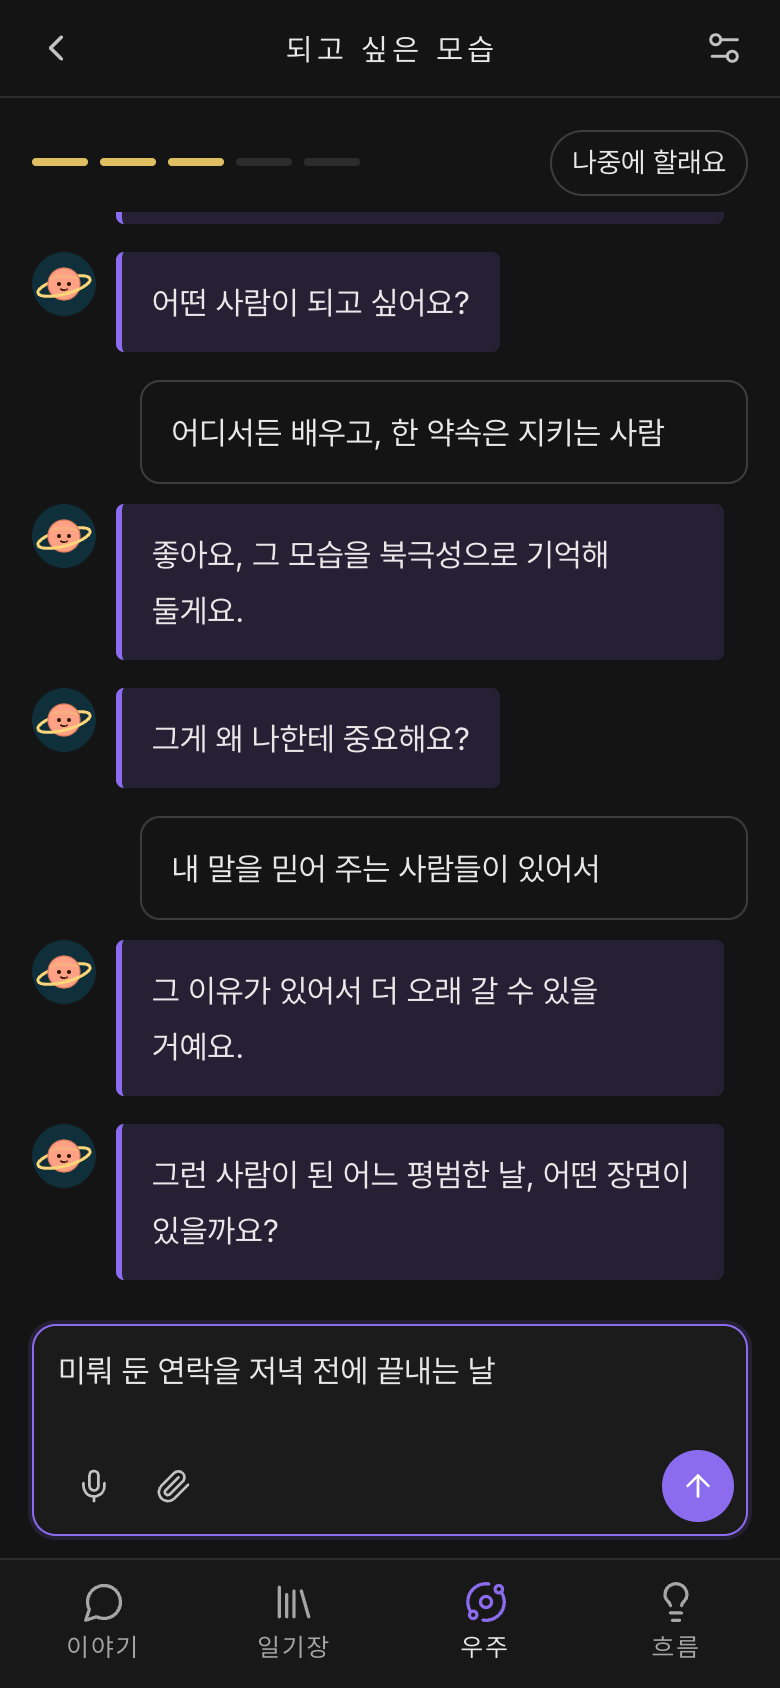
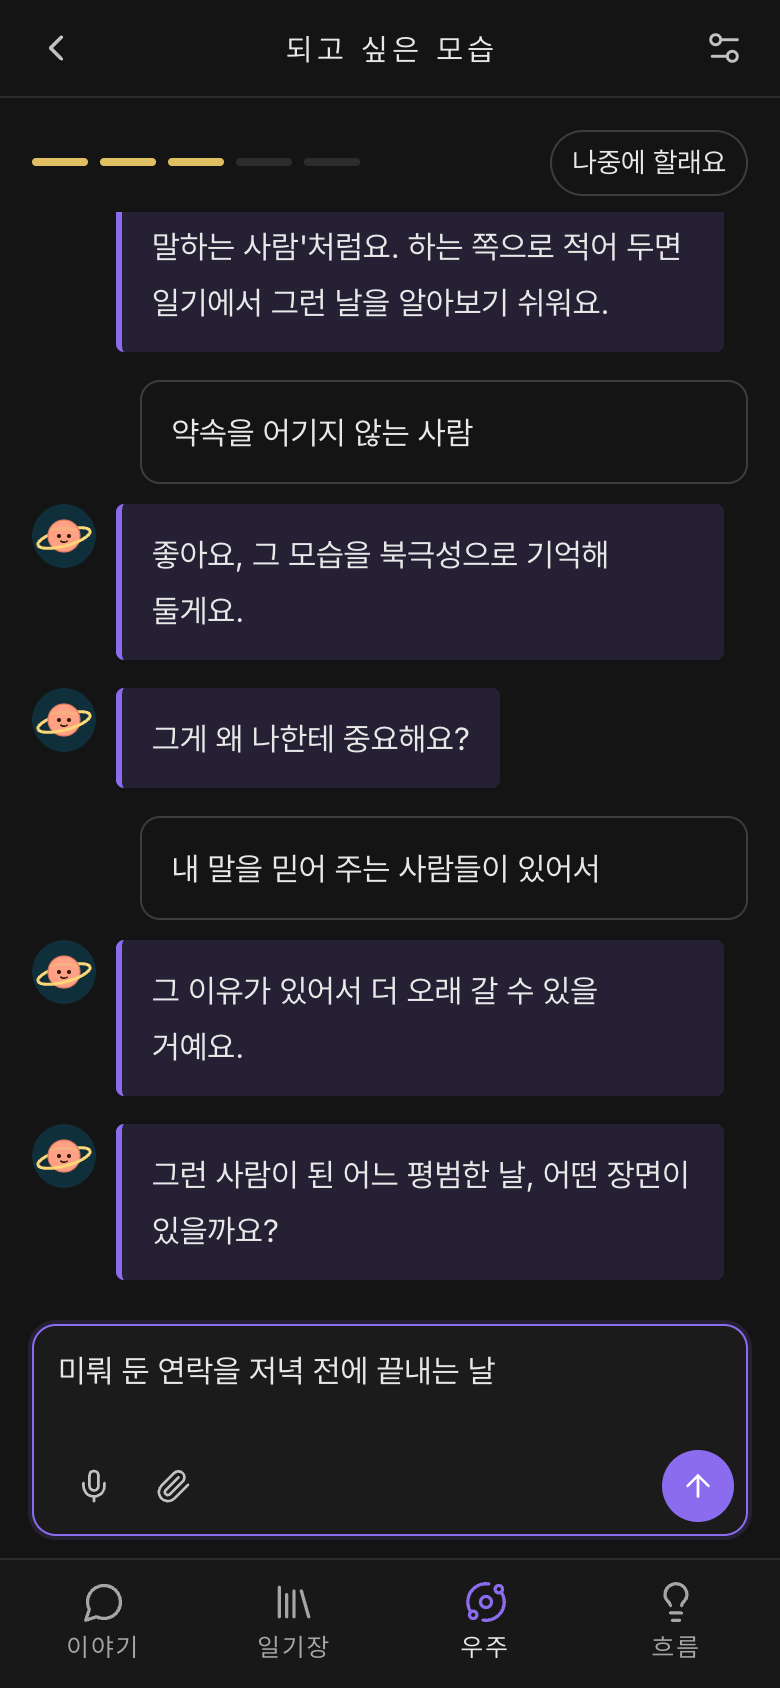
되고 싶은 모습: 피하는 말로 답하면 왜 다시 묻는지 + 예시로 돌려 묻고 '처음 말 그대로 둘래요' 단추(사용자 불편 11/3 「두 질문의 차이를 모르겠다」)

diff --git a/infra/frontend/components/AspirationInterview.tsx b/infra/frontend/components/AspirationInterview.tsx
@@ -1,7 +1,8 @@
 "use client";
 // 되고 싶은 모습 인터뷰(PRD v9 Q3): 별지기와 대화하듯 다섯 질문(방향 · 이유 · 장면 · 안쪽 걸림 · 그때) → 한 화면 요약 → 고칠 것은 다시 묻기.
 // 질문 · 받아 주는 말 · 예시는 온톨로지 aspiration.ask_steps(LLM 없음). '몰라요'나 아주 짧은 답이면 예시로 한 번만 더 묻고,
-// 그래도 모르면 그 칸은 비워 두고 다음으로. 방향이 피하는 말이면 한 번만 돌려 묻는다. 답은 사용자가 한 말 그대로 남긴다.
+// 그래도 모르면 그 칸은 비워 두고 다음으로. 방향이 피하는 말이면 왜 묻는지와 함께 한 번만 돌려 묻고, '처음 말 그대로 둘래요'로 그대로 둘 수도 있다
+// (2026-11-04 사용자 불편 「두 질문의 차이를 모르겠다」). 답은 사용자가 한 말 그대로 남긴다.
 import { useEffect, useRef, useState } from "react";
 import Icon from "@/components/Icon";
 import { useKeeperName } from "@/components/Keeper";
@@ -25,7 +26,7 @@ export default function AspirationInterview({ first, onDone, onLater }:
   const [lines, setLines] = useState<Line[]>([]);
   const [draft, setDraft] = useState("");
   const [retried, setRetried] = useState<number[]>([]);   // 예시로 한 번 더 물은 질문
-  const [avoided, setAvoided] = useState(false);
+  const [avoided, setAvoided] = useState("");   // 돌려 물은 처음 방향 답(그대로 두기 단추에 씀)
   const [fixing, setFixing] = useState<number | null>(null);   // 요약에서 '고칠래요'로 다시 묻는 질문
   const [summary, setSummary] = useState(false);
   const [values, setValues] = useState<string[]>([]);
@@ -67,8 +68,8 @@ export default function AspirationInterview({ first, onDone, onLater }:
       return next(a, t, "괜찮아요. 이건 비워 두고, 나중에 다시 여쭤볼게요.");
     }
     if (i === 0 && AVOID.test(t) && !avoided) {
-      setAvoided(true);
-      setLines([...lines, { who: "me", text: t }, { who: "keeper", text: steps[0].avoid_ask ?? "그럼 대신 어떤 사람이 되고 싶어요?" }]);
+      setAvoided(t);
+      setLines([...lines, { who: "me", text: t }, { who: "keeper", text: steps[0].avoid_ask ?? steps[0].question }]);
       return;
     }
     const a = { ...ans, [key(i)]: t };
@@ -130,6 +131,8 @@ export default function AspirationInterview({ first, onDone, onLater }:
             {fail && <p className="err" role="alert" style={{ margin: 0 }}>{fail}</p>}
           </div>
         )}
+        {avoided && step === 0 && fixing === null && ans.want === undefined && (   // 돌려 물은 말 바로 밑 답 단추
+          <button type="button" className="small" style={{ marginLeft: 36 }} onClick={() => answer(avoided)}>처음 말 그대로 둘래요</button>)}
         <div ref={endRef} />
       </div>
 

diff --git a/infra/frontend/e2e/flow.spec.ts b/infra/frontend/e2e/flow.spec.ts
@@ -130,13 +130,25 @@ test("핵심 흐름", async ({ page }, info) => {
     const answers = ["어디서든 배우고, 한 약속은 지키는 사람", "내 말을 믿어 주는 사람들이 있어서", "미뤄 둔 연락을 저녁 전에 끝내는 날",
       "피곤하면 다 내일로 미룬다", "피곤하면 오 분만 하고 자겠다"];
     const box = page.locator("#asp-input");
-    for (const [i, a] of answers.entries()) {
+    await box.fill("약속을 어기지 않는 사람");                                          // 피하는 말 → 왜 다시 묻는지 + 그대로 두기(2026-11-04 사용자 불편)
+    await box.press("Enter");
+    await expect(page.getByText(/'하는' 쪽으로 말해 볼까요/)).toBeVisible();
+    await shot("09-aspiration-avoid");
+    await page.getByRole("button", { name: "처음 말 그대로 둘래요" }).click();
+    await expect(page.getByText("그게 왜 나한테 중요해요?")).toBeVisible();
+    await expect(page.getByRole("button", { name: "처음 말 그대로 둘래요" })).toHaveCount(0);
+    for (const [i, a] of answers.slice(1).entries()) {
       await box.fill(a);
-      if (i === 2) await shot("09-aspiration-form");
+      if (i === 1) await shot("09-aspiration-form");
       await box.press("Enter");
     }
     const sum = page.getByRole("generic", { name: "이렇게 적어 둘게요" }).or(page.locator(".asp-sum"));
     await expect(sum).toContainText("“내 말을 믿어 주는 사람들이 있어서”");
+    await expect(sum).toContainText("“약속을 어기지 않는 사람”");                       // 처음 말 그대로
+    await sum.getByRole("button", { name: "고칠래요" }).nth(0).click();                     // 방향을 하는 쪽으로 고침(다시 돌려 묻지 않음)
+    await box.fill(answers[0]);
+    await box.press("Enter");
+    await expect(page.locator(".asp-sum")).toContainText(`“${answers[0]}”`);
     await sum.getByRole("button", { name: "고칠래요" }).nth(2).click();                     // 장면만 다시 묻기
     await box.fill("미뤄 둔 연락을 저녁 먹기 전에 끝내는 날");
     await box.press("Enter");

diff --git a/docs/content/U-06_되고 싶은 나.md b/docs/content/U-06_되고 싶은 나.md
@@ -41,6 +41,8 @@
 | 3 | 걸리는 것 | 그렇게 되는 데 가장 걸리는 건 뭐예요? |
 | 4 | 그때 해 볼 것 | 그게 걸릴 때 무엇을 해 볼까요? (~면 ~하겠다) |
 
+> [!note] 방향 답이 '~하지 않는 사람'처럼 피하는 말이면 한 번만 돌려 묻는다: 「좋아요. 이번엔 그 모습을 '하는' 쪽으로 말해 볼까요? 예를 들면 '화내지 않는 사람'은 '차분히 말하는 사람'처럼요. 하는 쪽으로 적어 두면 일기에서 그런 날을 알아보기 쉬워요.」 그 말 바로 밑 버튼: 처음 말 그대로 둘래요. (2026-11-04 사용자 불편 「두 질문의 차이를 모르겠다」 — 1판 「그럼 대신 어떤 사람이 되고 싶어요?」는 왜 다시 묻는지 몰랐다. 문구 원본은 온톨로지 aspiration.ask_steps[0].avoid_ask)
+
 *{n} / 4 · {질문 이름}*
 
 - 입력: {지금 질문} · 흐린 예시: {편하게 적어 주세요 / 예: 피곤하면 오 분만 하고 자겠다}
